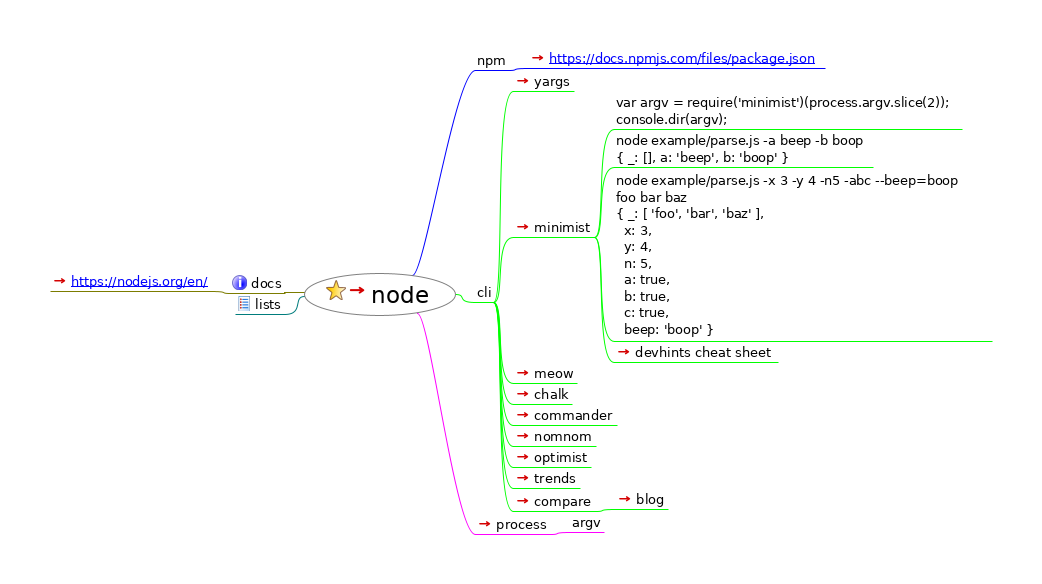
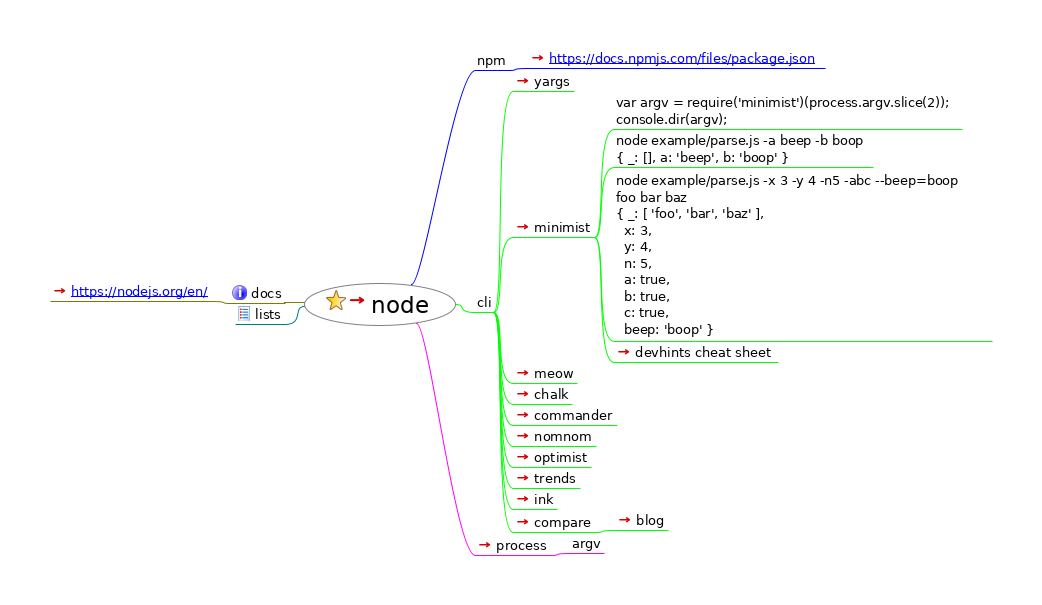
add ink

diff --git a/server/node/index.mm b/server/node/index.mm
@@ -115,6 +115,7 @@
 <node TEXT="nomnom" ID="ID_76514077" CREATED="1574949292521" MODIFIED="1574949316459" LINK="https://github.com/harthur/nomnom"/>
 <node TEXT="optimist" ID="ID_1291499310" CREATED="1574949295191" MODIFIED="1574949326103" LINK="https://github.com/substack/node-optimist"/>
 <node TEXT="trends" ID="ID_452522485" CREATED="1574949352822" MODIFIED="1574949361489" LINK="https://www.npmtrends.com/commander-vs-meow-vs-minimist-vs-nomnom-vs-optimist-vs-yargs"/>
+<node TEXT="ink" ID="ID_1392937972" CREATED="1574949848131" MODIFIED="1574949855121" LINK="https://www.npmjs.com/package/ink"/>
 <node TEXT="compare" ID="ID_237207484" CREATED="1574949452441" MODIFIED="1574949456914" LINK="https://npmcompare.com/compare/commander,meow,minimist,nomnom,optimist">
 <node TEXT="blog" ID="ID_53085124" CREATED="1574949555770" MODIFIED="1574949560408" LINK="https://pantas.net/node_argument_parsers/"/>
 </node>
